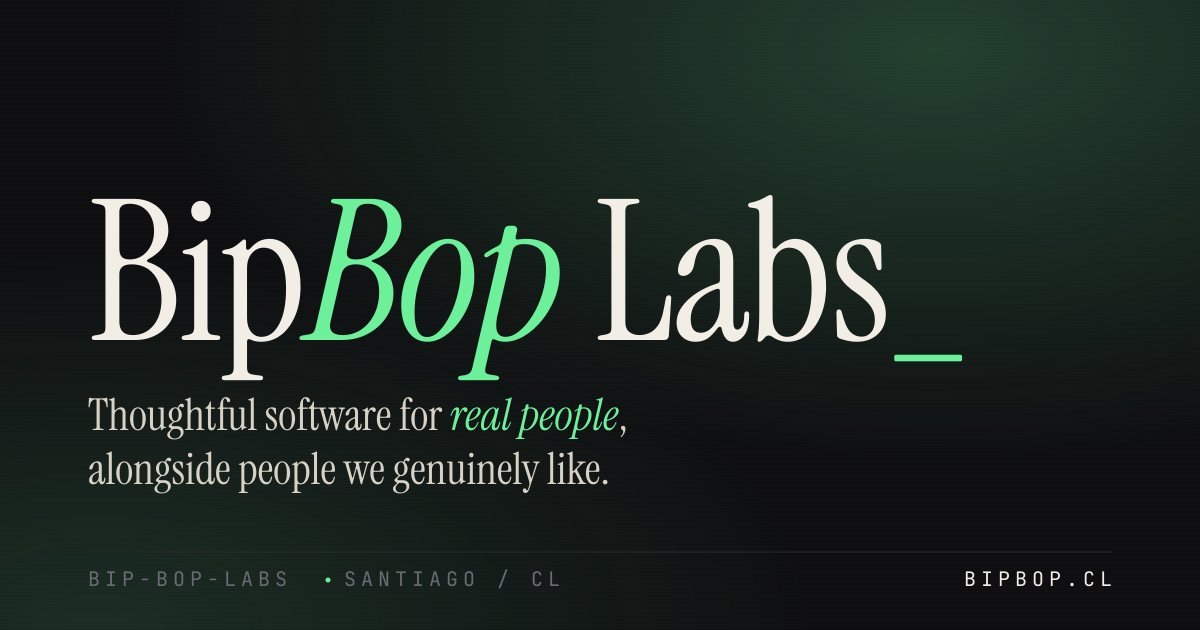
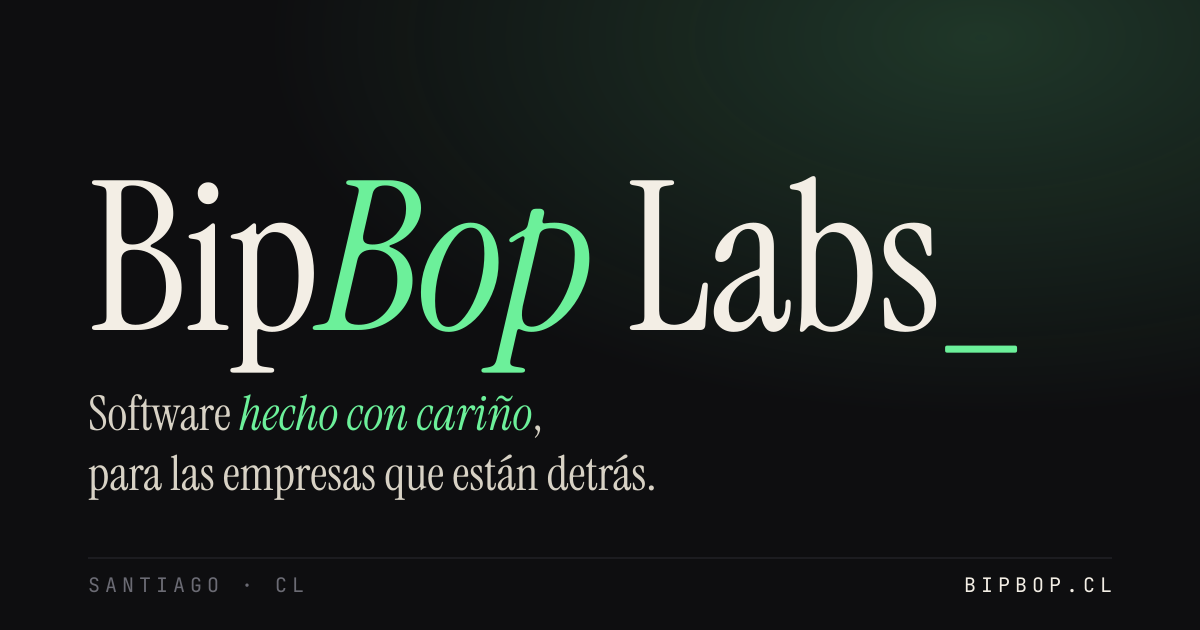
Simplify OG image and smooth Spanish about copy
Drop the second gradient and grain pattern from the OG art, lift the
wordmark, and lean on the Spanish brand line so the share card carries
the studio voice on its own. Smooth the Spanish about paragraph so it
flows naturally instead of translating the English structure word for
word.

diff --git a/index.html b/index.html
@@ -797,8 +797,8 @@
         <p>Founded by <a href="https://v4rgas.com">Juan Vargas</a>, Computer Engineer from Pontificia Universidad Católica de Chile. We stay small on purpose: the work stays focused, and the people doing it actually care about it.</p>
       </div>
       <div class="about-body" data-i18n="es">
-        <p>BipBop Labs es un estudio pequeño con base en Santiago, Chile. Trabajamos principalmente con empresas chilenas, y los proyectos que tomamos suelen vivir entre la IA, las herramientas internas y la web.</p>
-        <p>Fundado por <a href="https://v4rgas.com">Juan Vargas</a>, Ingeniero Civil en Computación de la Pontificia Universidad Católica de Chile. Nos mantenemos pequeños a propósito: así el trabajo es enfocado, y a quienes lo hacen de verdad les importa.</p>
+        <p>BipBop Labs es un estudio pequeño en Santiago de Chile. Trabajamos sobre todo con empresas chilenas, en proyectos que se mueven entre la IA, las herramientas internas y la web.</p>
+        <p>Fundado por <a href="https://v4rgas.com">Juan Vargas</a>, Ingeniero Civil en Computación de la Pontificia Universidad Católica de Chile. Nos mantenemos pequeños a propósito: así el trabajo se mantiene enfocado, y a quienes lo hacen de verdad les importa.</p>
       </div>
     </div>
 